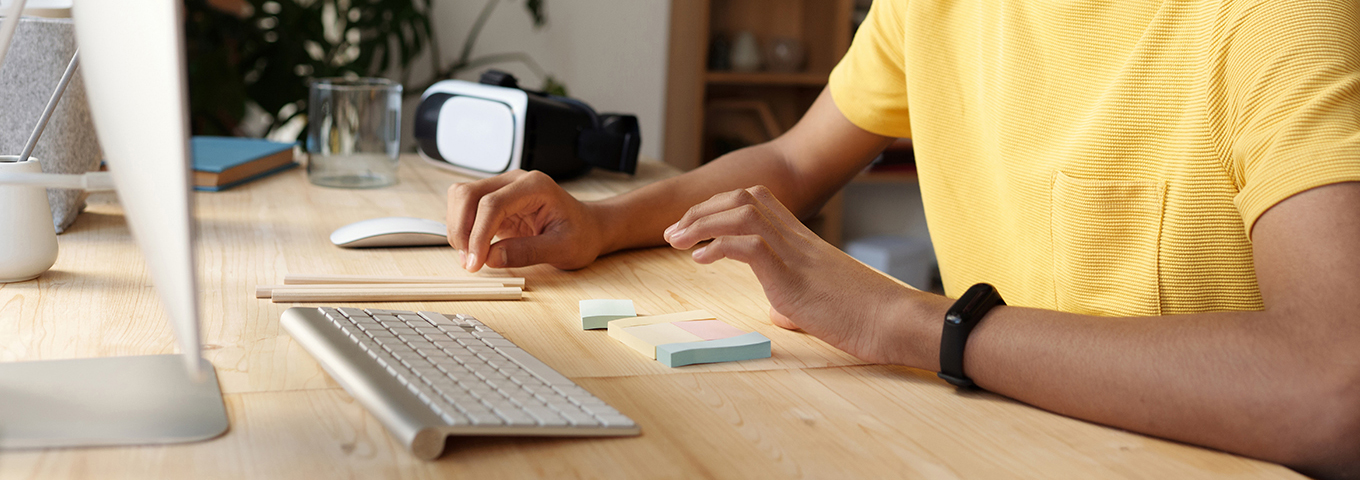
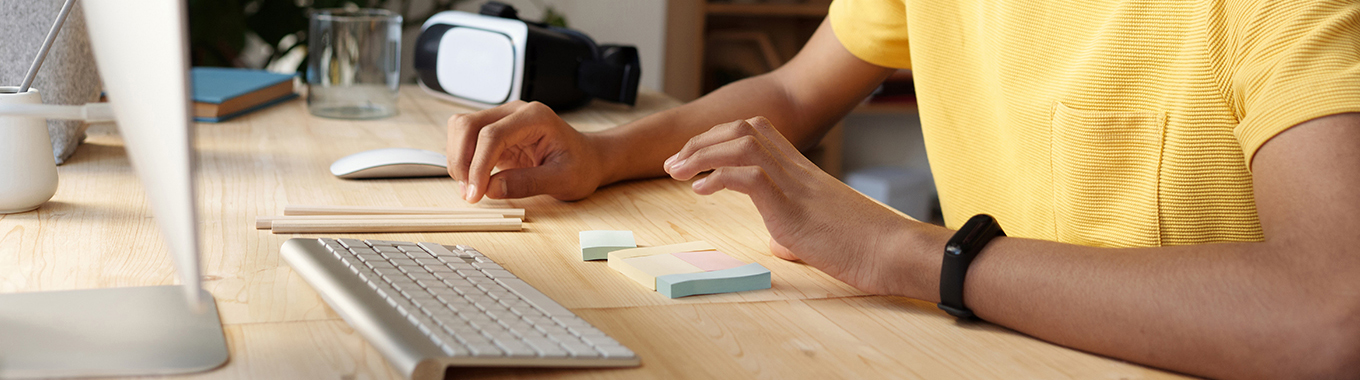
fixes most of nav bar

diff --git a/index.html b/index.html
@@ -13,6 +13,7 @@
     <link
         href="https://fonts.googleapis.com/css2?family=Montserrat:ital,wght@0,100;0,200;0,300;0,400;0,500;0,600;0,700;0,800;0,900;1,100;1,200;1,300;1,400;1,500;1,600;1,700;1,800;1,900&display=swap"
         rel="stylesheet">
+    <link rel="stylesheet" href="https://cdnjs.cloudflare.com/ajax/libs/animate.css/4.1.1/animate.min.css" />
     <link rel="stylesheet" href="css/main.css">
 </head>
 
@@ -20,37 +21,86 @@
 
     <!-- NAVIGATION -->
     <header>
-        <nav class="navbar navbar-expand-lg bg-body-tertiary shadow">
-            <div class="javanav container-fluid">
-                <a class="navbar-brand ps-5" href="index.html">
-                    <img class="logo1" src="/images/logo.svg" alt="logo" width="200" height="100">
+        <nav class="navbar navbar-expand-lg bg-white shadow py-lg-2">
+            <div class="container javanav">
+                <a class="d-lg-none navbar-brand ps-3 ps-sm-0" href="index.html">
+                    <img class="logo1" src="/images/logo.svg" alt="logo" width="220" height="120">
                 </a>
-                <button class="navbar-toggler" type="button" data-bs-toggle="collapse"
-                    data-bs-target="#navbarNavDropdown" aria-controls="navbarNavDropdown" aria-expanded="false"
+                <button class="d-lg-none navbar-toggler me-2 me-sm-0" type="button" data-bs-toggle="collapse"
+                    data-bs-target="#navigationdrop" aria-controls="navigationdrop" aria-expanded="false"
                     aria-label="Toggle navigation">
-                    <span class="navbar-toggler-icon"></span>
+                    <span class="navbar-toggler-icon border-0"></span>
                 </button>
-                <div class="collapse navbar-collapse" id="navbarNavDropdown">
-                    <ul class="navbar-nav">
-                        <li class="nav-item dropdown">
-                            <a class="nav-link dropdown-toggle" href="#" role="button" data-bs-toggle="dropdown"
-                                aria-expanded="false">
+
+                <div class="px-5 mx-5 collapse navbar-collapse justify-content-lg-between text-center"
+                    id="navigationdrop">
+                    <!-- Logo for desktop only -->
+                    <div>
+                        <a class="d-none d-lg-block navbar-brand" href="index.html">
+                            <img id="logodesktop" src="/images/logo.svg" alt="logo" width="250" height="120"
+                                onmouseover="hover(this);" onmouseout="hoverOut(this)">
+                        </a>
+                    </div>
+                    <!-- Padding to align with everything ps-3 & ps-sm-0 -->
+                    <!-- WORK -->
+                    <ul class="navbar-nav py-3 d-lg-none">
+                        <!-- Padding to give enough space -->
+                        <li class="navwork nav-item dropdown link-primary bg-white">
+                            <a class="nav-link dropdown-toggle fs-4 text-primary p-3 px-5" href="#" role="button"
+                                data-bs-toggle="dropdown" aria-expanded="false">
                                 Work
                             </a>
-                            <ul class="dropdown-menu">
-                                <li><a class="dropdown-item" href="photography.html">Photography</a></li>
-                                <li><a class="dropdown-item" href="uxdesign.html">UX Design</a></li>
-                                <li><a class="dropdown-item" href="artdirection.html">Art Direction</a></li>
+                            <ul class="workitems dropdown-menu text-center fs-5">
+                                <li>
+                                    <a class="navphotography dropdown-item py-3" href="photography.html">&#x003E;
+                                        Photography</a>
+                                </li>
+                                <li>
+                                    <a class="navuxdesign dropdown-item py-3" href="uxdesign.html">&#x003E; UX
+                                        Design</a>
+                                </li>
+                                <li>
+                                    <a class="navartdirection dropdown-item py-3" href="artdirection.html">&#x003E; Art
+                                        Direction</a>
+                                </li>
                             </ul>
                         </li>
-                        <li class="nav-item">
-                            <a class="nav-link active" aria-current="page" href="about.html">About</a>
-                        </li>
-                        <li class="nav-item">
-                            <a class="nav-link active" aria-current="page" target="_blank"
-                                href="https://www.dropbox.com/scl/fi/l3lwlzy48x57yh7ndb9th/Resume-test.pdf?rlkey=ggzcfbgfz8tlrncumady8gcn5">Resume</a>
+                    </ul>
+                    <!-- DISPLAY ON DESKTOP ONLY -->
+                    <ul class="navbar-nav py-3 d-none d-lg-block">
+                        <!-- Padding to give enough space -->
+                        <li class="navwork nav-item dropdown link-primary bg-white">
+                            <a class="nav-link dropdown-toggle fs-4 text-primary p-3 px-5" href="#" role="button"
+                                data-bs-toggle="dropdown" aria-expanded="false">
+                                Work
+                            </a>
+                            <ul class="deskmenu dropdown-menu fs-5 rounded-5 border-2">
+                                <li>
+                                    <a class="dropdown-item p-4" href="photography.html">&#x003E; Photography</a>
+                                </li>
+                                <li>
+                                    <a class="dropdown-item p-4" href="uxdesign.html">&#x003E; UX Design</a>
+                                </li>
+                                <li>
+                                    <a class="dropdown-item p-4" href="artdirection.html">&#x003E; Art Direction</a>
+                                </li>
+                            </ul>
                         </li>
                     </ul>
+                    <!-- ABOUT -->
+                    <div class="nav-item border-2 px-5 navabout p-3">
+                        <a class="nav-link active fs-4 text-primary" aria-current="page" href="about.html">About</a>
+                    </div>
+                    <!-- RESUME -->
+                    <!-- Padding only on hamburger to keep resume separate -->
+                    <div class="nav-item pb-5 pb-lg-3 py-3">
+                        <!-- Resume styling -->
+                        <div class="navresume border-0 px-4">
+                            <a class="nav-link active fs-4 p-3 fw-semibold" aria-current="page" target="_blank"
+                                href="https://www.dropbox.com/scl/fi/l3lwlzy48x57yh7ndb9th/Resume-test.pdf?rlkey=ggzcfbgfz8tlrncumady8gcn5">Resume
+                            </a>
+                        </div>
+                    </div>
                 </div>
             </div>
         </nav>
@@ -59,11 +109,19 @@
 
         <!-- BANNER IMAGE + TITLE/INTRODUCTION -->
         <div class="card text-bg-dark border-0 rounded-0">
-            <img src="images/bannermobile.jpg" class="d-md-none d-sm-block opacity-50 card-img rounded-0" alt="Banner image of myself working on a computer">
-            <img src="images/bannertab.jpg" class="d-none d-md-block opacity-50 card-img rounded-0" alt="Banner image of myself working on a computer">
-            <div class="card-img-overlay p-5">
-                <h1 class="card-title text-white pt-4 display-6">Hello, I'm Sunit!</h1>
-                <p class="card-text display-1 lh-1 fw-bold">I design brands, visuals, &#x003C;code&#x003E; & motion.</p>
+            <img src="images/bannermobile.jpg" class="d-md-none d-sm-block opacity-50 card-img rounded-0"
+                alt="Banner image of myself working on a computer">
+            <img src="images/bannertab.jpg" class="d-none d-md-block d-xl-none opacity-50 card-img rounded-0"
+                alt="Banner image of myself working on a computer">
+            <img src="images/bannerdesk.jpg" class="d-none d-xl-block opacity-50 card-img rounded-0"
+                alt="Banner image of myself working on a computer">
+            <div class="card-img-overlay pt-5 pt-xxl-5 pt-lg-5 mt-lg-5 pt-md-5">
+                <!-- Adjusting text padding and margin to each browser width -->
+                <div class="container">
+                    <h1 class="card-title text-white display-6">Hello, I'm Sunit!</h1>
+                    <p class="card-text display-1 lh-1 fw-bold">I design brands, visuals, &#x003C;code&#x003E; & motion.
+                    </p>
+                </div>
             </div>
         </div>
         <!-- SHOWREEL -->
@@ -71,7 +129,9 @@
             <p class="text-center mb-0 text-white">Watch my</p>
             <h2 class="text-center mx-4 text-white">Showreel</h2>
             <div class="showreelvideo">
-                <iframe class="mx-2 p-4" title="vimeo-player" src="https://player.vimeo.com/video/750096112?h=9320b202a0" width="100%" height="360" frameborder="0" allowfullscreen></iframe>
+                <iframe class="mx-2 p-4" title="vimeo-player"
+                    src="https://player.vimeo.com/video/750096112?h=9320b202a0" width="100%" height="360"
+                    frameborder="0" allowfullscreen></iframe>
                 <!-- Put the video here! -->
             </div>
         </div>
@@ -79,7 +139,8 @@
     <main class="container-xxl">
         <!-- HIGHLIGHTED PROJECTS -->
         <div class="projects">
-            <h2 class="m-4 text-primary text-center">Here are some projects I like to brag about…</h2>
+            <h2 class="m-4 text-primary text-center display-5 fw-semibold">Here are some projects I like to brag about…
+            </h2>
             <!-- CARD 1 -->
             <div class="card border-0 m-4 mb-lg-5 mt-lg-5">
                 <div class="row g-0">
@@ -91,12 +152,13 @@
                     </div>
                     <div class="col-xl-4">
                         <div class="card-body px-0 pe-xl-4">
-                            <h2 class="card-title text-primary">Amazing Greys</h2>
+                            <h2 class="card-title text-primary display-5 fw-semibold">Amazing Greys</h2>
                             <h5 class="text-secondary d-none d-md-block">PHOTOGRAPHY</h5>
-                            <p class="d-none d-md-block text-primary">Product photography conceptualized and shot for
+                            <p class="d-none d-md-block text-primary fs-5">Product photography conceptualized and shot
+                                for
                                 India’s first beauty brand for those over forty.</p>
                             <a href="#"
-                                class="outlinebutton btn btn-white rounded-5 text-primary border-1 border-primary">See
+                                class="outlinebutton btn btn-white rounded-5 text-primary border-1 border-primary fs-5">See
                                 all <strong>Photography</strong> work &#9654;</a>
                         </div>
                     </div>
@@ -114,13 +176,13 @@
                     </div>
                     <div class="col-xl-4">
                         <div class="card-body px-0 ps-xl-4">
-                            <h2 class="card-title text-primary">Bready To Go</h2>
+                            <h2 class="card-title text-primary display-5 fw-semibold">Bready To Go</h2>
                             <h5 class="text-secondary d-none d-md-block">UX DESIGN</h5>
-                            <p class="d-none d-md-block text-primary">Class assignment on a drive-through bakery in
+                            <p class="d-none d-md-block text-primary fs-5">Class assignment on a drive-through bakery in
                                 Ottawa focused on speedy, freshly
                                 made bread.</p>
                             <a href="uxdesign.html"
-                                class="outlinebutton btn btn-white text-primary rounded-5 border-1 border-primary">See
+                                class="outlinebutton btn btn-white text-primary rounded-5 border-1 border-primary fs-5">See
                                 all <strong>UX Design</strong> work &#9654;</a>
                         </div>
                     </div>
@@ -137,13 +199,13 @@
                     </div>
                     <div class="col-xl-4">
                         <div class="card-body px-0 pe-xl-4">
-                            <h2 class="card-title text-primary">TVS Ntorq X MARVEL</h2>
+                            <h2 class="card-title text-primary display-5 fw-semibold">TVS Ntorq X MARVEL</h2>
                             <h5 class="text-secondary d-none d-md-block">ART DIRECTION</h5>
-                            <p class="d-none d-md-block text-primary">Advertising for a TVS X MARVEL collab that
+                            <p class="d-none d-md-block text-primary fs-5">Advertising for a TVS X MARVEL collab that
                                 resulted in a motor scooter launch.
                             </p>
                             <a href="artdirection.html"
-                                class="outlinebutton btn btn-white text-primary rounded-5 border-primary">See all
+                                class="outlinebutton btn btn-white text-primary rounded-5 border-primary fs-5">See all
                                 <strong>Advertising</strong> work &#9654;</a>
                         </div>
                     </div>
@@ -156,15 +218,16 @@
         <h2 class="text-white display-3 fw-medium pb-3">
             Don't be shy, get in touch!
         </h2>
-        <a class="outlinebuttonfooter btn btn-white text-white rounded-5 border-white fs-5" href="mailto:sunitjjo@gmail.com">
+        <a class="outlinebuttonfooter btn btn-white text-white rounded-5 border-white fs-5"
+            href="mailto:sunitjjo@gmail.com">
             Email me
         </a>
-        <hr class="my-5 border-white border-3">
+        <hr class="my-5 border-white border-2">
         <div class="footergrid row">
             <div class="col-md-4 logoandmail">
                 <img class="footerlogo" src="images/logofooter.svg" alt="Logo" height="65">
                 <br>
-                <a class="link-light link-underline fs-2" href="mailto:sunitjjo@gmail.com">sunitjjo@gmail.com</a>
+                <a class="link-light link-underline fs-4" href="mailto:sunitjjo@gmail.com">sunitjjo@gmail.com</a>
             </div>
             <div class="col-md-4 sociallinks py-3 py-md-0">
                 <a class="link-light link-underline" href="https://www.linkedin.com/in/sunitjj/">Linkedin</a>
@@ -207,6 +270,16 @@
                 logo.src = 'images/logo.svg'
             }
         })
+    </script>
+    <!-- Making logo wink on hover for desktop -->
+    <script>
+        function hover(img) {
+            img.src = "images/logo2.svg"
+        }
+
+        function hoverOut(img) {
+            img.src = "images/logo.svg"
+        }
     </script>
 
 </body>

diff --git a/css/main.css b/css/main.css
@@ -3,11 +3,13 @@
     --cinnabar: #E94F37;
     --berkeleyblue: #003262;
 
+
 }
 
 * {
     font-family: 'Montserrat';
 }
+
 .outlinebutton:hover {
     background-color: var(--berkeleyblue);
     color: white !important;
@@ -20,4 +22,62 @@
 
 footer {
     background-color: var(--berkeleyblue);
+}
+
+/* 
+.navwork:hover {
+    border: 1px solid var(--berkeleyblue);
+    border-radius: 20px;
+} */
+
+/* Set font everywhere */
+
+body {
+    font-family: "Montserrat";
+}
+
+/* Styling nav items */
+
+.navresume {
+    background-color: var(--californiagold);
+    color: white;
+    border-radius: 40px;
+}
+
+.navresume:hover,
+.navresume:active {
+    background-color: var(--berkeleyblue);
+}
+
+.navabout {
+    border-radius: 40px;
+    border: 2px solid white;
+}
+
+.navabout:hover,
+.navabout:active {
+    border: 2px solid var(--berkeleyblue);
+}
+
+.navwork {
+    border: 2px solid white;
+    border-radius: 40px;
+}
+
+.navwork:hover,
+.navwork:active {
+    border: 2px solid var(--berkeleyblue);
+}
+
+.workitems {
+    border: none;
+    background: none;
+}
+
+/* Remove the hover */
+.navphotography:hover,
+.navuxdesign:hover,
+.navartdirection:hover {
+    background: none;
+    color: var(--berkeleyblue);
 }

diff --git a/README.md b/README.md
@@ -1,1 +1,12 @@
 # portfolio
+
+
+
+
+
+
+
+
+
+
+Hover image javascrpt: https://linuxhint.com/change-image-on-hover-in-javascript/
